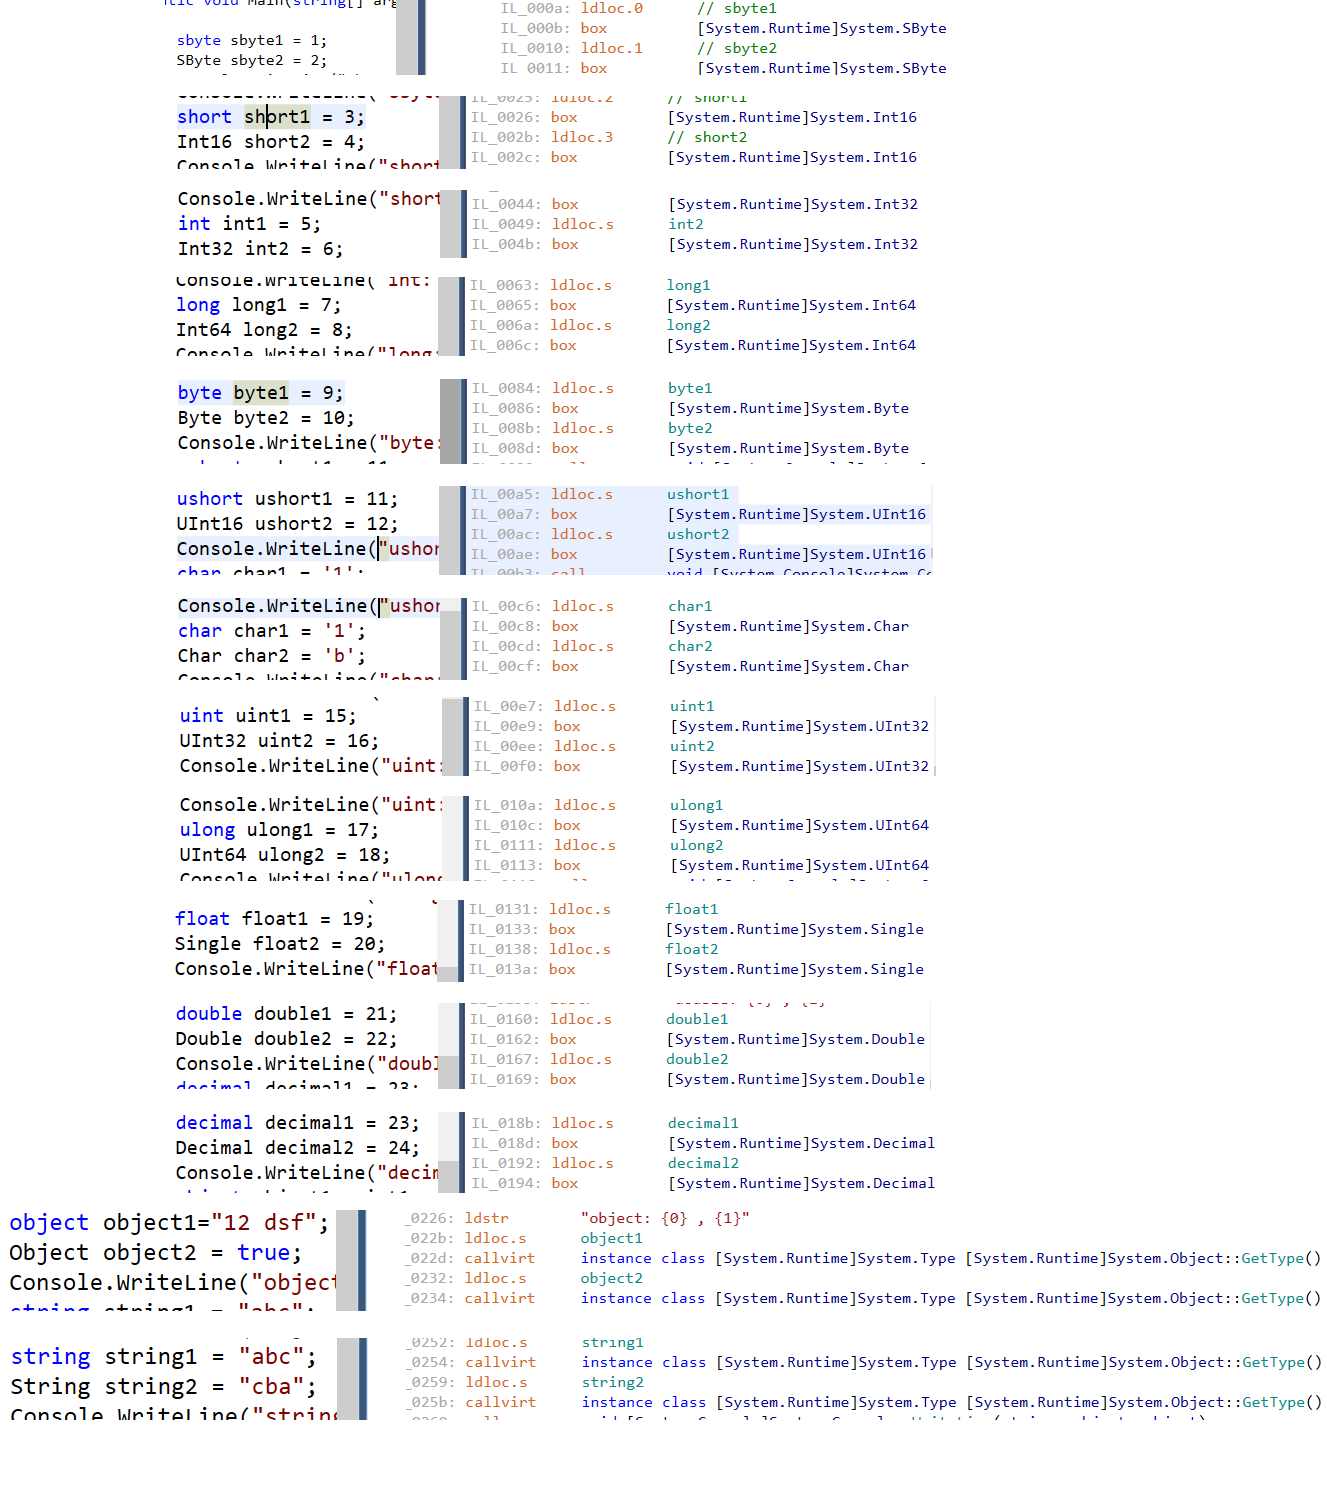
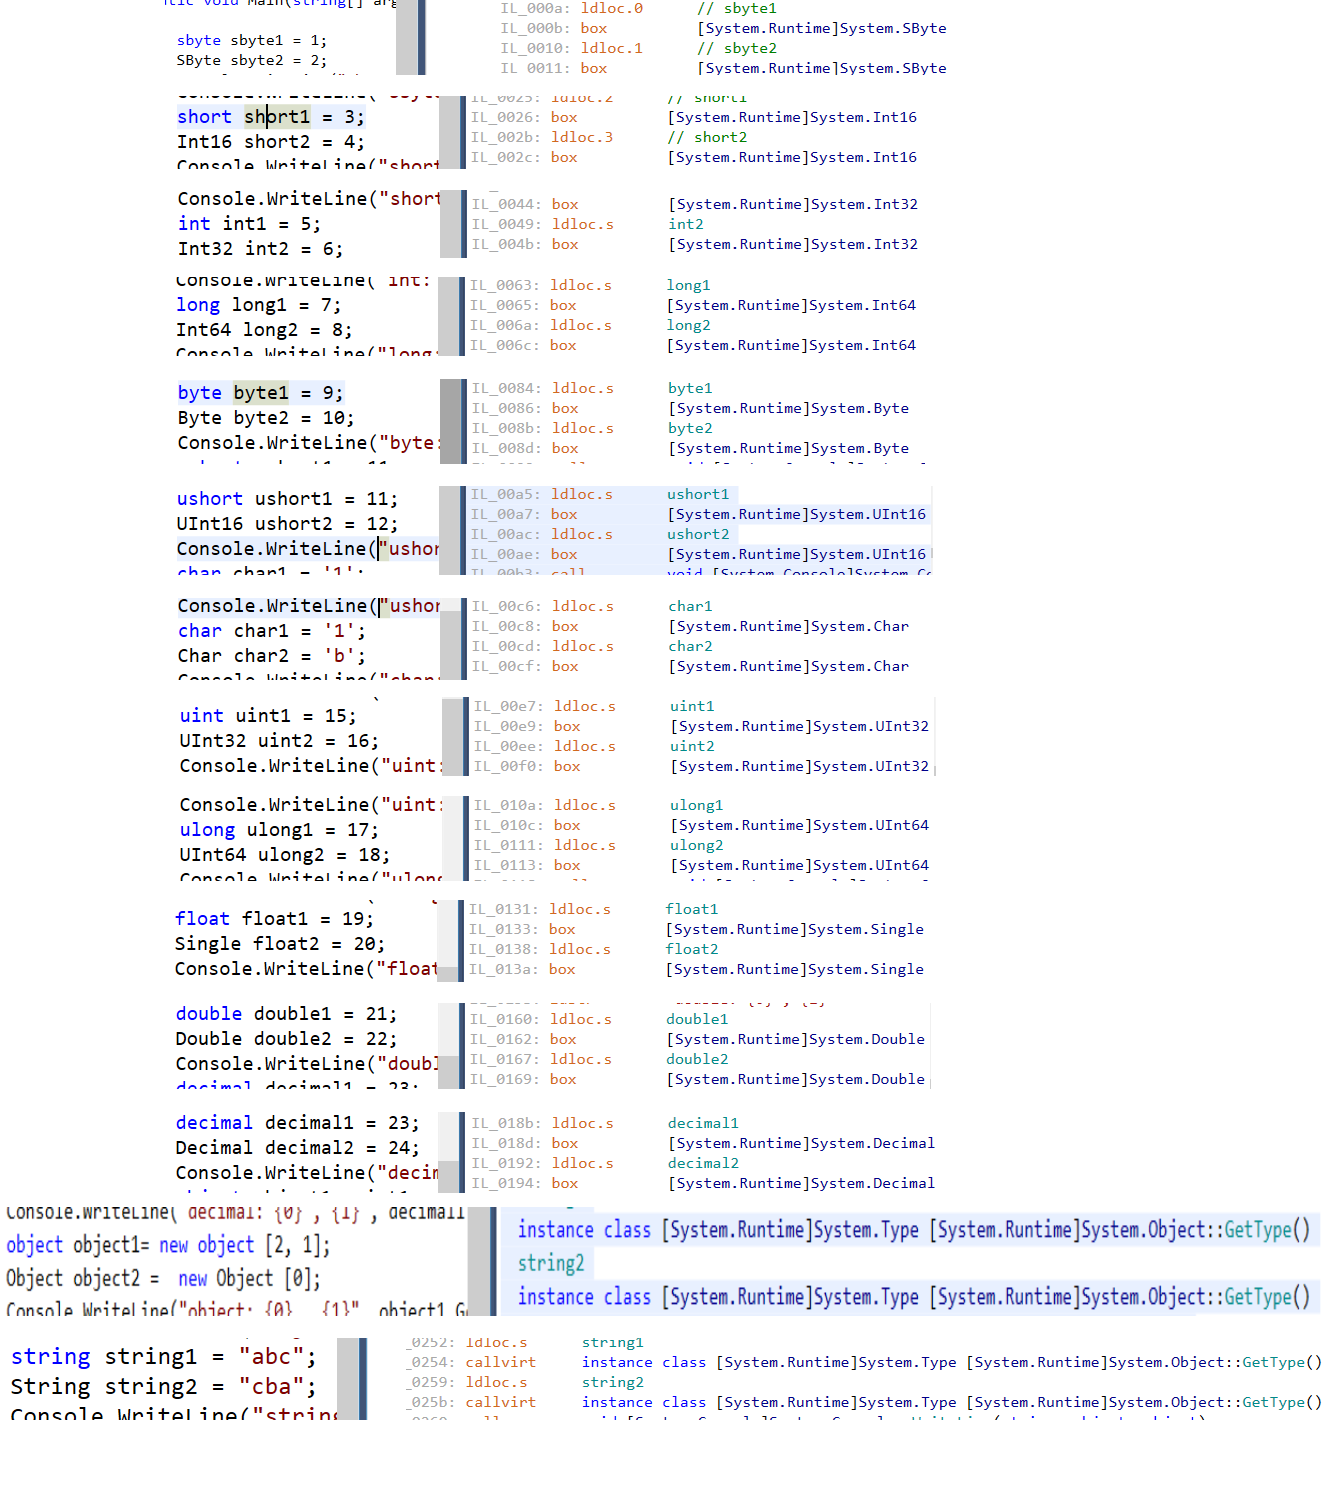
changed Task2

Changed region(s): [[0.0, 0.8043, 0.9887, 0.8971]]

diff --git a/ItAcademyHomeWorks/Task2/Program.cs b/ItAcademyHomeWorks/Task2/Program.cs
@@ -42,12 +42,8 @@ namespace Task2
             decimal decimal1 = 23;
             Decimal decimal2 = 24;
             Console.WriteLine("decimal: {0} , {1}", decimal1.GetType(), decimal2.GetType());
-            object object1="12 dsf";
-            Object object2 =  true;
-            /*For object type, when output to the console,
-             * returns the data type, that was assigned to it,
-             * because reference type.
-             */
+            object object1= new object [2, 1];
+            Object object2 =  new Object [0];
             Console.WriteLine("object: {0} , {1}", object1.GetType(), object2.GetType());
             string string1 = "abc";
             String string2 = "cba";
